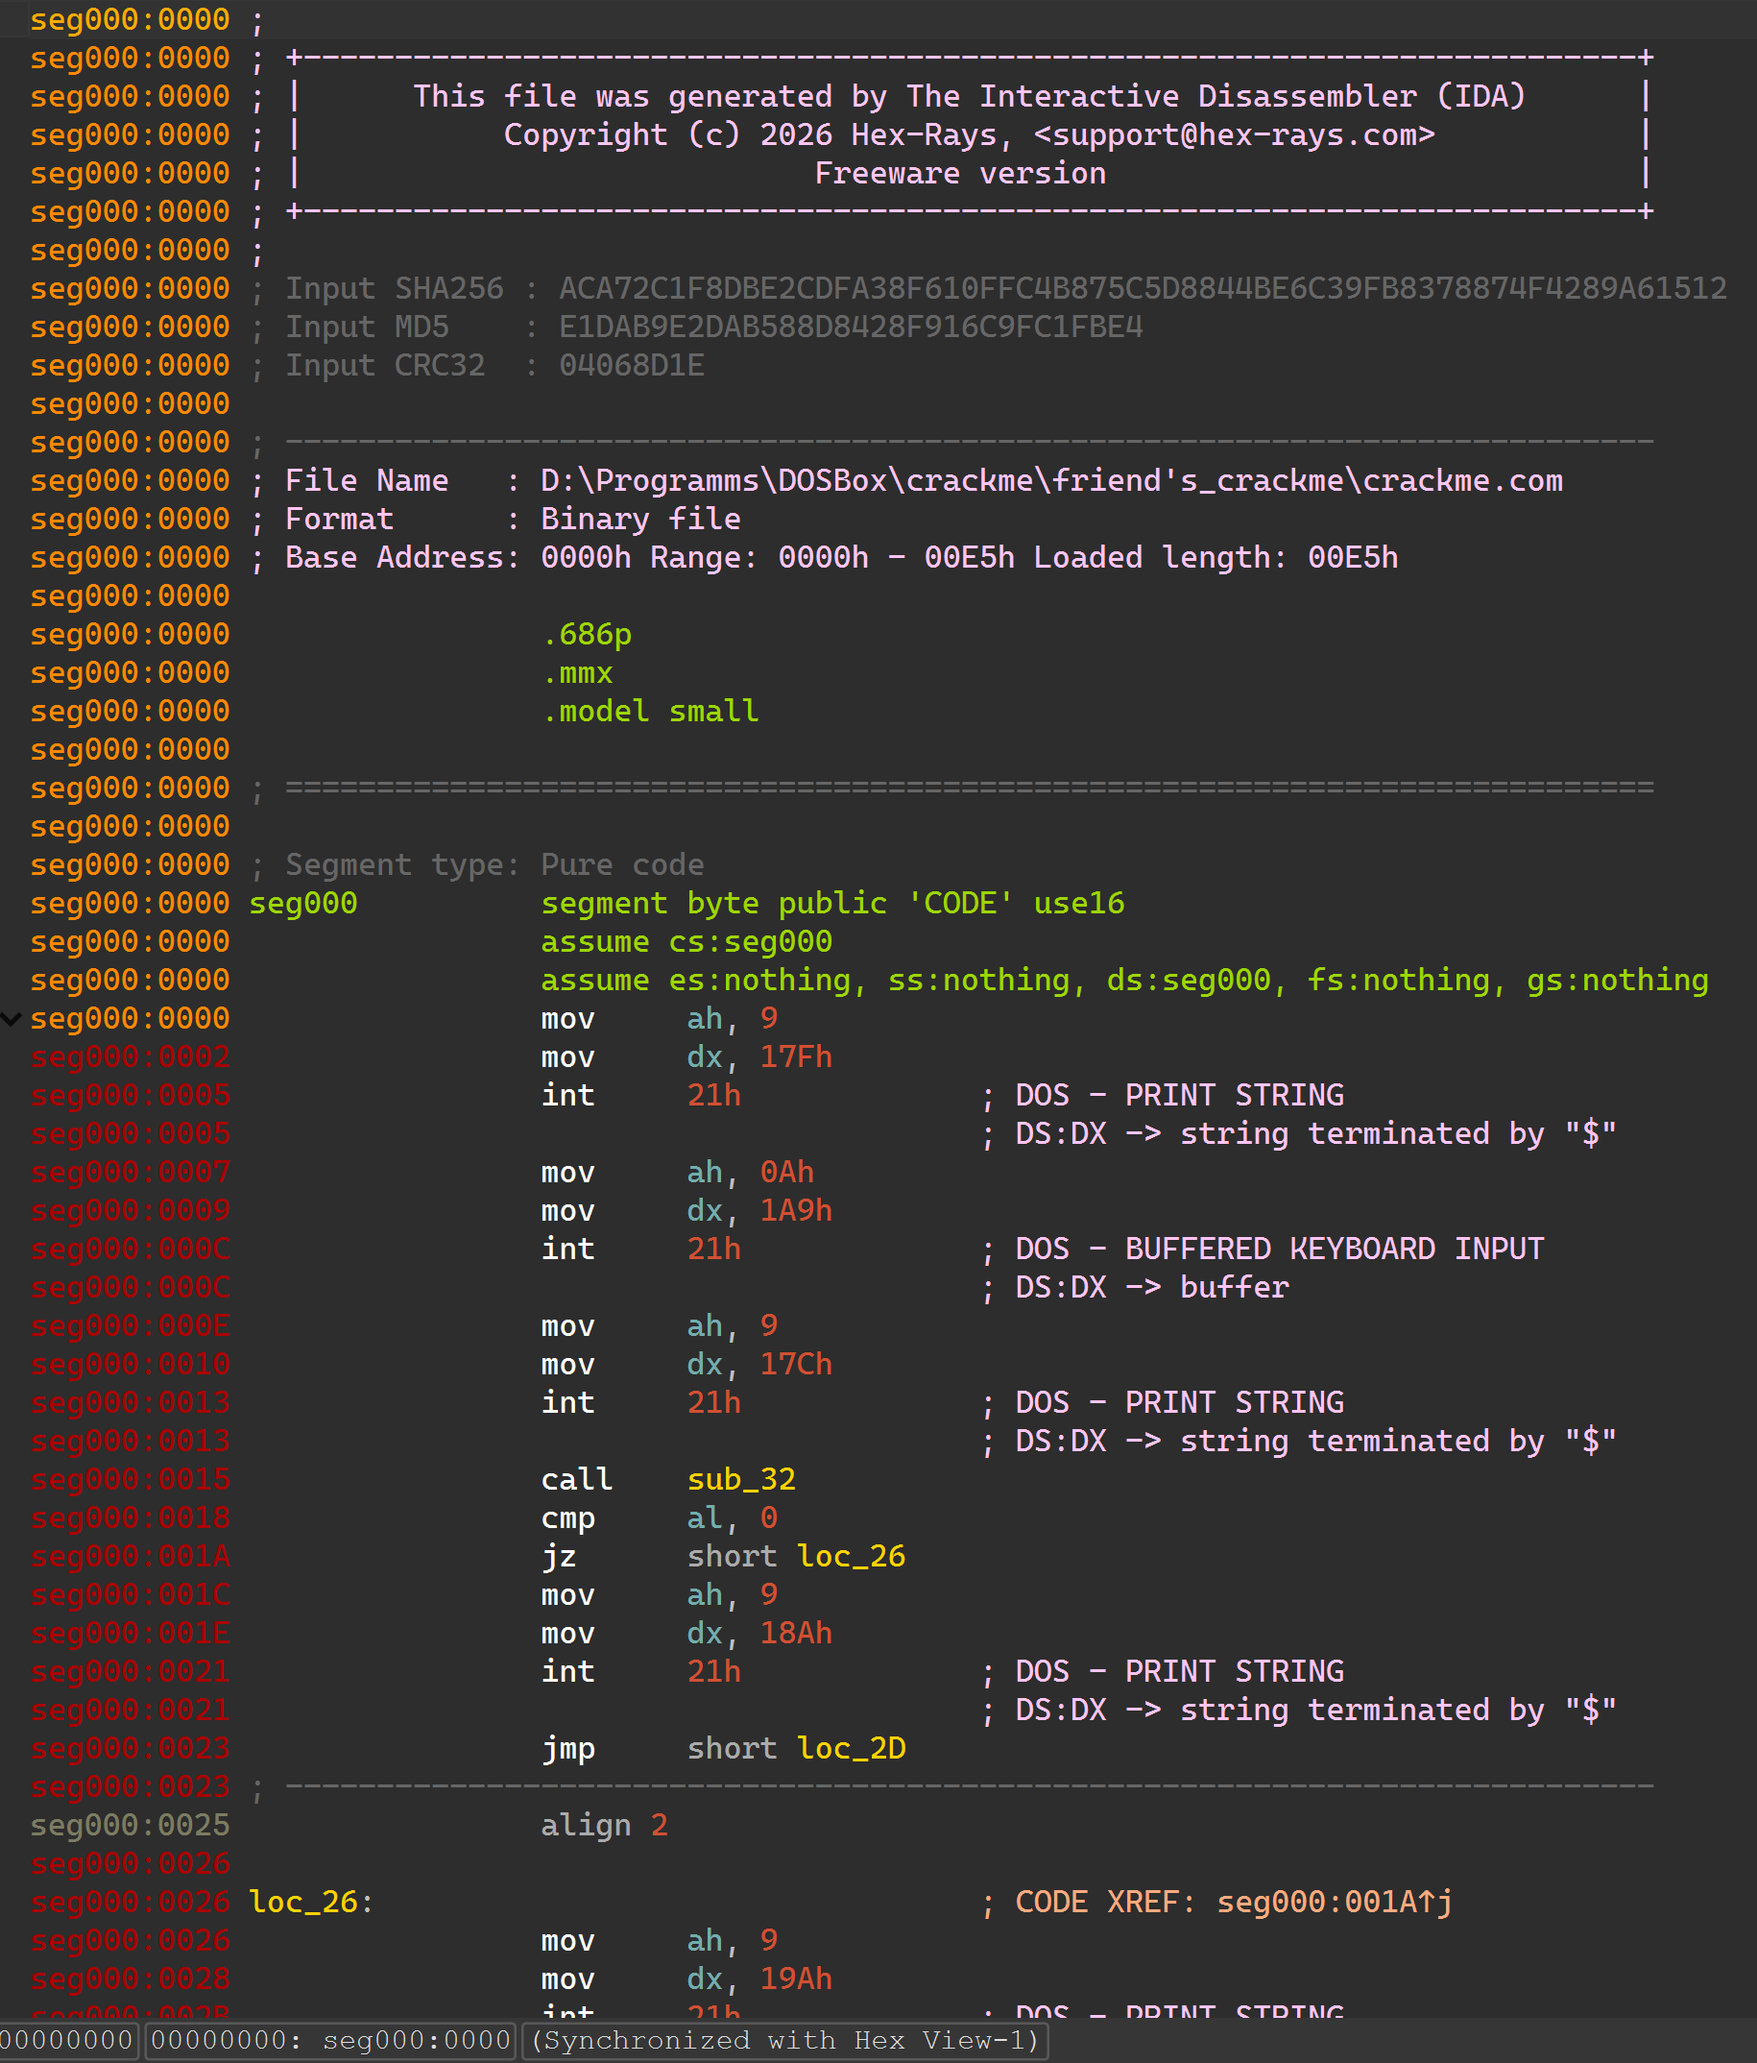
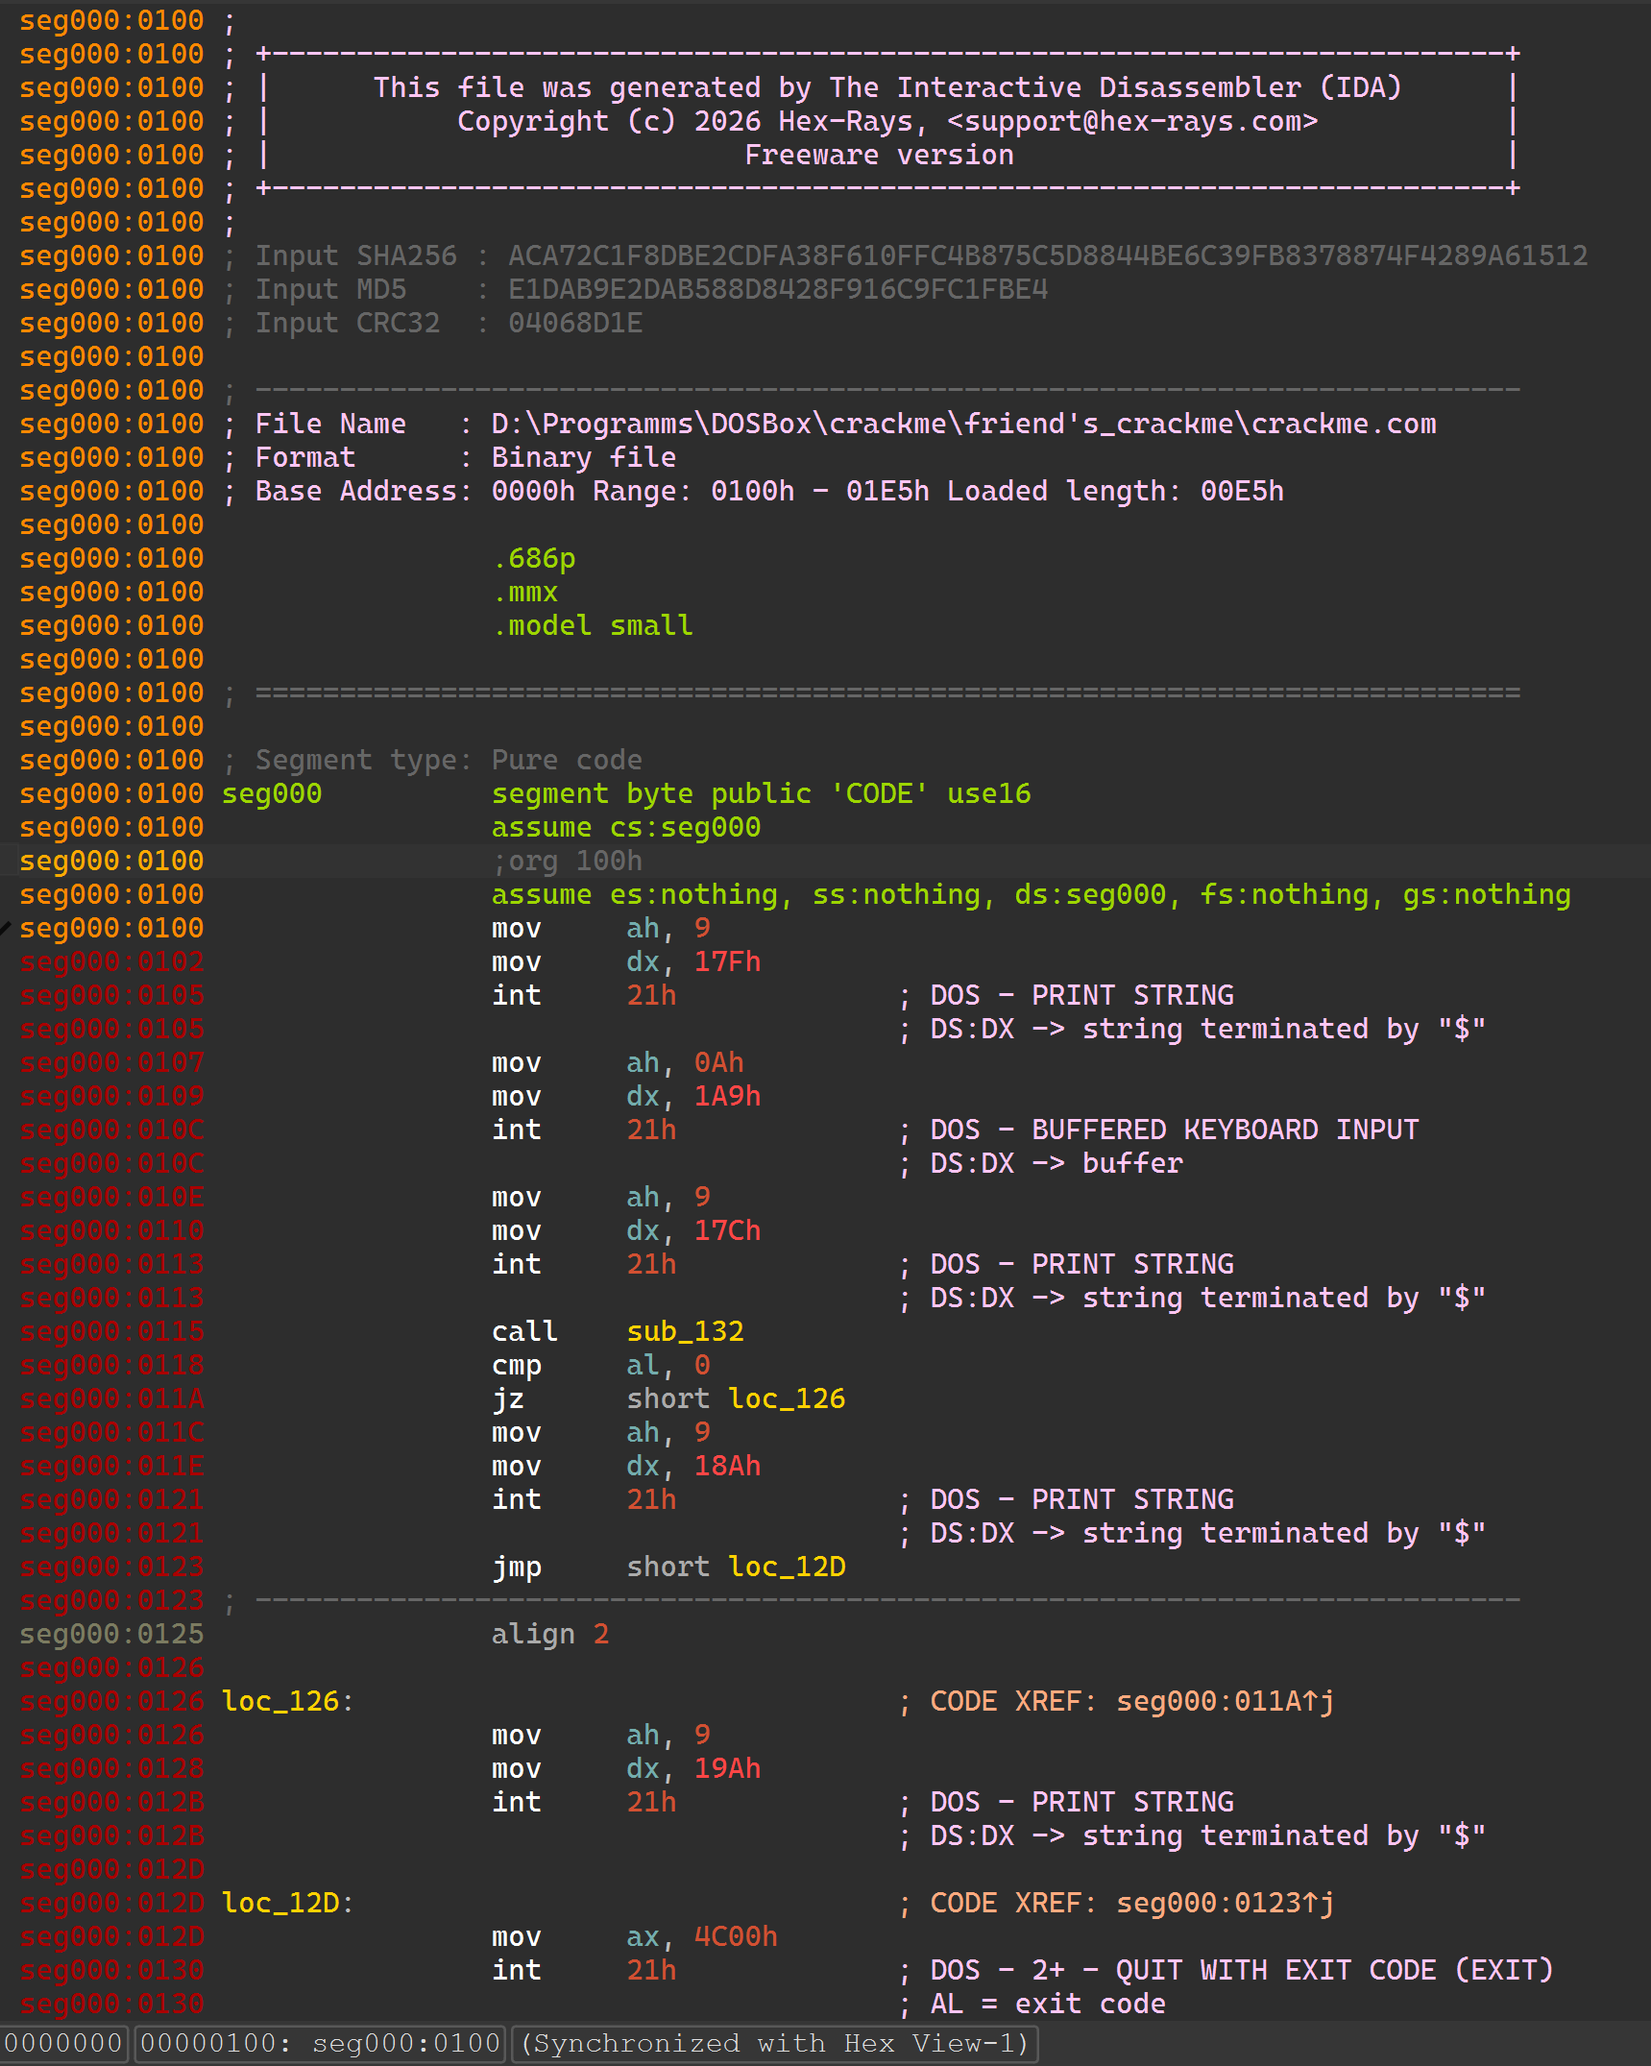
Upd readme

diff --git a/README.md b/README.md
@@ -1,7 +1,7 @@
 # crackme
 ## Краткое описание
 
-Задача данного проекта заключалась в том, чтобы взломать чужой исполняемый файл, не изменяя его напрямую.
+Задача данного проекта заключалась в том, чтобы взломать чужой исполняемый файл, не изменяя его.
 
 Для этого использовалась операционная система DOS, а именно ее эмулятор DOSBox, так как она позволяет делать низкоуровневые изменения, из-за которых в современных ОС происходит segmentation fault
 
@@ -37,10 +37,6 @@
     <img src="assets/image-1.png" width="60%">
 </p>
 
-Открыв данный код в Turbo Debugger, определим, что адрес первой команды 0100h, что означает об использовании директивы org 100h, выделяющий под *Program Segment Prefix (PSP)* 100h байт
-
-Отсюда делаем вывод, что к относительным адресам в дизассемблере нужно будет прибавить 0100h
-
 Таким образом, следующие сообщения лежат по адресам:
 | Адрес         | Сообщение |
 | --- | --- |
@@ -67,7 +63,7 @@
     <img src="assets/image-3.png" width="80%">
 </p>
 
-По адресу 01A9 лежит длина буфера (32h = 50d байт), после чего 50 байт, заполненных нулями (сам буфер)
+По адресу 01A9 лежит длина буфера (32h = 50d байт), после чего байт с фактической длиной введенной строки и 50 байт, заполненных нулями (сам буфер)
 
 ## Анализ функции verify_password
 
@@ -77,9 +73,9 @@
 
 Данная функция использует стек для хранения введенной строки. Она выделяет 17 байт в стеке и копирует буфер из памяти
 ### **Ключевой момент**
-Копируются 11h = 17d байт, однако изначальный размер буфера 50 байт!<br>
+В стеке выделяется память размером 11h = 17d байт, однако копируется столько, сколько фактически было записано в буфер (может быть больше 17-и байт). Изначальный размер буфера 50 байт, а выделено в стеке лишь 17 байт!<br>
 
-Это и является уязвимостью! Таким образом, мы сможем подать на ввод больше чем 17 байт и, переполнив буфер, поменять важные поля в стеке
+Это и является уязвимостью! Таким образом, мы сможем подать на ввод больше чем 17 байт и, переполнив место в стеке, отведенное под хранение строки, поменять важные поля в стеке
 
 <p align="center">
     <img src="assets/image-5.png" width="75%">
@@ -90,7 +86,7 @@
 
 Таким образом, подав на ввод 16 мусорных байт и ненулевой байт после, я перетру изначальное значение флага access_status в стеке, и программа будет считать, что пароль верный
 
-С помощью расширения VSCode **Hex Editor** от Microsoft, я создал бинарный файл, содержащий 16 нулевых байт, после чего байт равный 01 (флаг проверки) и 0D (символ переноса каретки CR) для окончания ввода
+С помощью расширения VSCode **Hex Editor** от Microsoft, я создал бинарный файл, содержащий 16 нулевых байт, после чего байт равный 01 (для подмены флага проверки) и 0D (символ переноса каретки CR) для окончания ввода
 
 ![alt text](assets/image-6.png)
 
@@ -115,7 +111,7 @@ crackme.com < status.hex
 
 Удобнее и проще всего будет передать управление команде, выводящей нужную строчку о правильном пароле, миновав проверку, за чем последует завершение программы.
 
-Учитывая **PSP** = 100h, необходимый адрес 011C. Также для записи в память используется **Little-endian** из-за чего записывать в ввод нужно будет в обратном порядке - **1C01**
+Необходимый адрес 011C. Также для записи в память используется **Little-endian** из-за чего записывать в ввод нужно будет в обратном порядке - **1C01**
 
 Затрем сохраненное значение BP нулями, так как оно все равно не будет использовано
 
